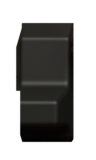
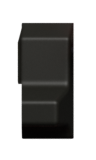
fix(panel): drawbar cap side profile from the owner's sketch

Changed region(s): [[0.1562, 0.1875, 0.7812, 0.9062]]

diff --git a/assets/blender/parts_cap.py b/assets/blender/parts_cap.py
@@ -17,10 +17,11 @@ from proof_geom import box, loft
 # 0.78 x 1.79 u at the base). Black and white caps share this geometry.
 CAP_W = 0.80
 CAP_BACK, CAP_FRONT = 0.90, -0.89
-CAP_HT, CAP_HN = 0.90, 0.42  # EMPIRICAL (photos): nose about 0.47 of the block height
+CAP_HT, CAP_HN = 0.70, 0.17  # EMPIRICAL: owner's side-view sketch (2026-11-13), block
+# 108 px and nose 26 px over a 277 px cap length
 BLOCK_FRONT = 0.20  # EMPIRICAL (loose-cap photo): block is about 0.4 of the cap length
-NOSE_TOP_FRONT = -0.66  # EMPIRICAL: flat nose top ends here, then the chamfer
-NOSE_FRONT_H = 0.14  # EMPIRICAL: upright foot left under the chamfer
+NOSE_TOP_FRONT = -0.52  # EMPIRICAL (sketch): flat nose top ends here, then curves down
+NOSE_FRONT_H = 0.03  # EMPIRICAL (sketch): the nose runs out almost to a point
 LIP_L, LIP_H = 0.06, 0.10  # EMPIRICAL (loose-cap photo): base lip behind the block
 CAP_TAPER = 0.05  # EMPIRICAL: walls nearly upright (draft only)
 CAP_BEVEL = 0.12  # EMPIRICAL: reference cap corners read about 8 px rounded at 2x
@@ -52,16 +53,18 @@ def _section(y, z, top_x, left=-CAP_W / 2):
 
 def fader_cap(m, key):
     """Drawbar cap, one loft from back to front: base lip, tall upright rear block, step
-    down onto the full-width nose (the bevel makes the fillet), chamfered nose front."""
+    down onto the low full-width nose (the bevel makes the fillet), curved nose front."""
     ht, hn, e = CAP_HT, CAP_HN, 0.005
     top = (-CAP_W / 2 * (1 - CAP_TAPER), CAP_W / 2 * (1 - CAP_TAPER))
     secs = [
         (CAP_BACK, LIP_H, top),
         (CAP_BACK - LIP_L, LIP_H, top),
         (CAP_BACK - LIP_L - e, ht, top),
-        (BLOCK_FRONT, ht, top),
+        (BLOCK_FRONT + 0.06, ht, top),
+        (BLOCK_FRONT, ht - 0.06, top),  # rounded top front edge (sketch)
         (BLOCK_FRONT - e, hn, top),
         (NOSE_TOP_FRONT, hn, top),
+        (-0.72, 0.10, top),  # EMPIRICAL (sketch): curved nose front
         (CAP_FRONT, NOSE_FRONT_H, top),
     ]
     rings = [_section(y, z, tx) for y, z, tx in secs]
